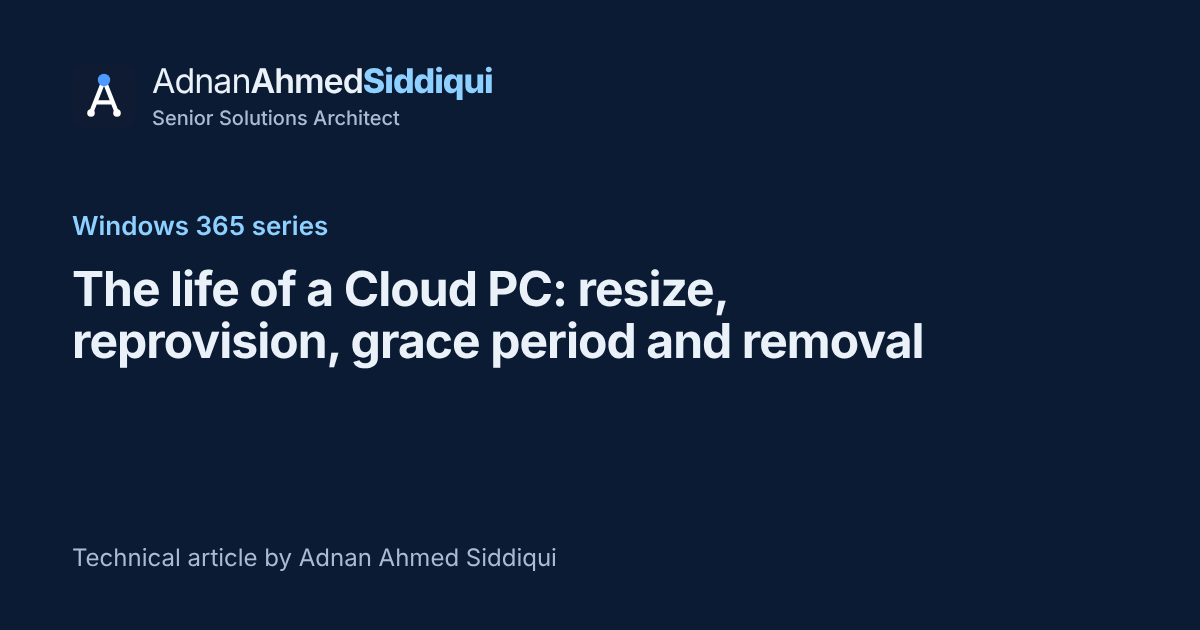
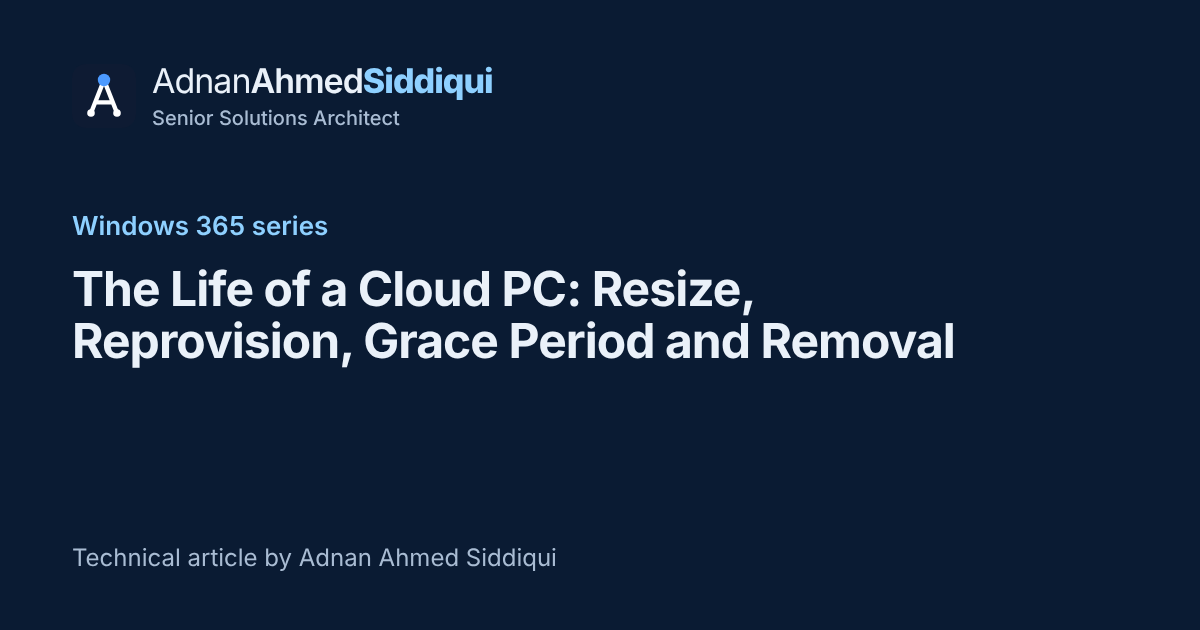
Use title case for the Cloud PC lifecycle article title

Changed region(s): [[0.0617, 0.4222, 0.8017, 0.6032]]

diff --git a/src/posts/windows-365-14-cloud-pc-lifecycle-resize-reprovision-removal.md b/src/posts/windows-365-14-cloud-pc-lifecycle-resize-reprovision-removal.md
@@ -1,5 +1,5 @@
 ---
-title: "The life of a Cloud PC: resize, reprovision, grace period and removal"
+title: "The Life of a Cloud PC: Resize, Reprovision, Grace Period and Removal"
 seoTitle: "Windows 365 Cloud PC lifecycle: resize, reprovision, removal"
 layout: post.njk
 permalink: /windows-365/cloud-pc-lifecycle/
